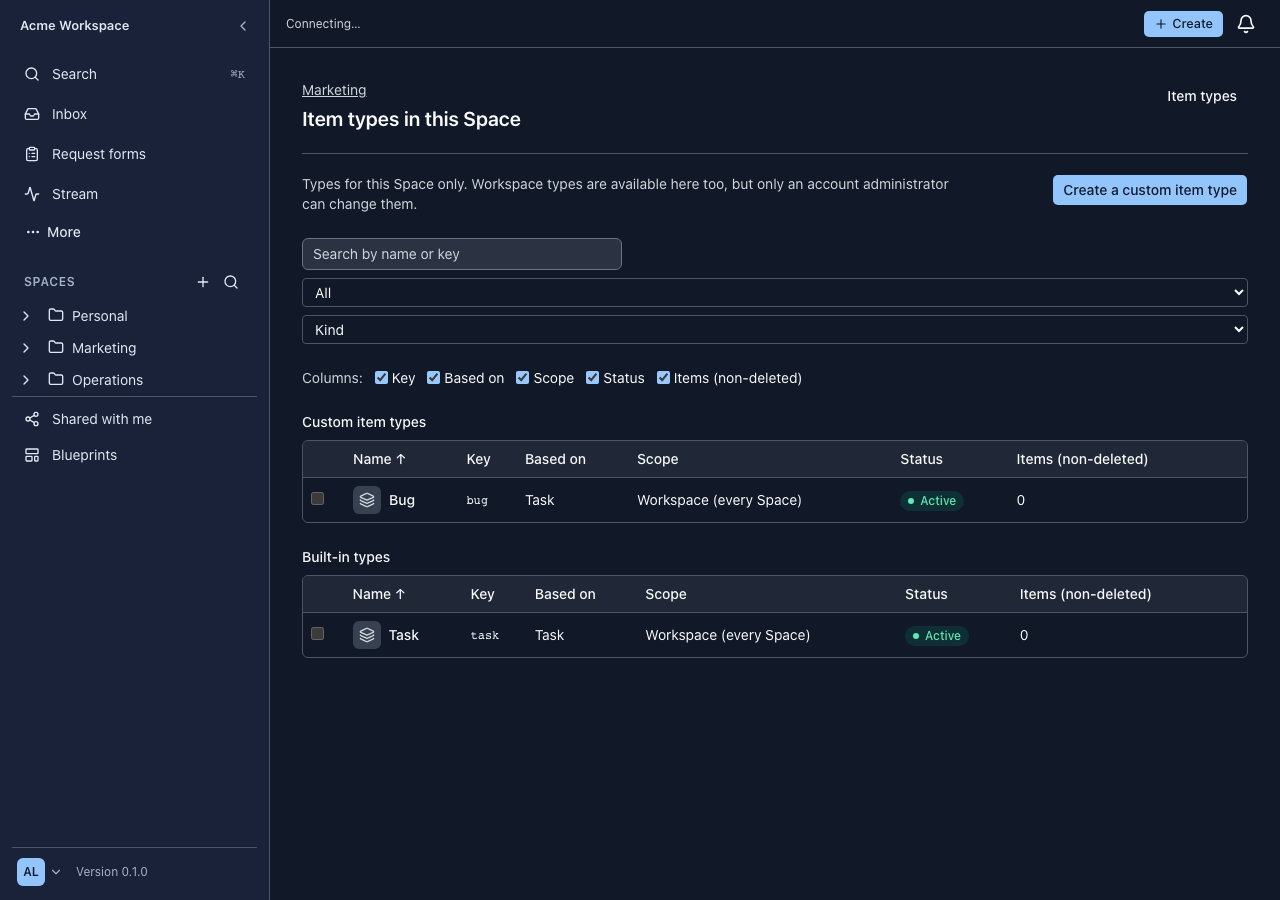
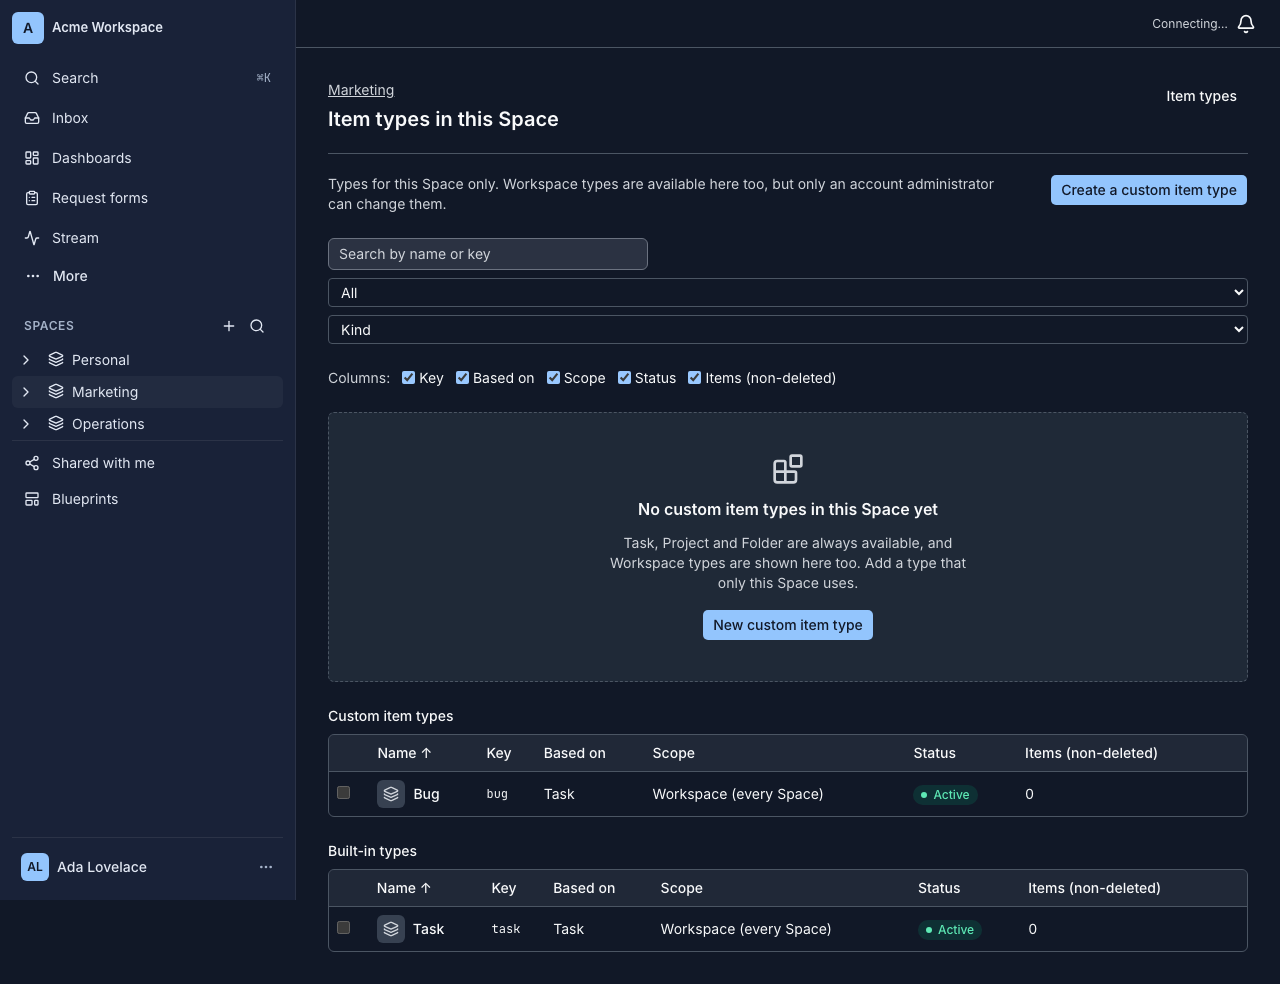
feat(home): Dashboards is the first default pin and the home page
Dashboards becomes the first shortcut pinned for new users and for
users who still have the old default pins (Request forms, Stream).
Search and Inbox were already fixed at the top of the sidebar.

After login, the home page ("/") now opens Dashboards instead of the
last-used or personal Space.

Migration 00350 changes the column default and moves only the users
whose pins are still exactly the old default. Users who changed their
pins keep them.

diff --git a/web/tests/auth.spec.ts b/web/tests/auth.spec.ts
@@ -12,7 +12,7 @@ test.describe("login", () => {
     await page.getByRole("textbox", { name: "Email" }).fill("ada@example.test");
     await page.getByLabel("Password").fill("correct horse");
     await page.getByRole("button", { name: "Log in" }).click();
-    await expect(page.getByRole("heading", { name: "Your workspace is ready" })).toBeVisible();
+    await expect(page).toHaveURL(/\/dashboards$/); // the home page is Dashboards
     expect(calls.find((c) => c.path === "/auth/login")?.body).toEqual({ email: "ada@example.test", password: "correct horse" });
   });
 
@@ -34,8 +34,8 @@ test.describe("login", () => {
     await expect(password).toHaveAttribute("type", "text");
   });
 
-  for (const [next, expected] of [["/settings/security", "/settings/security"], ["//evil.test", "/"]] as const) {
-    test(`next=${next} ${expected === "/" ? "is ignored" : "is honored"}`, async ({ page, baseURL }) => {
+  for (const [next, expected] of [["/settings/security", "/settings/security"], ["//evil.test", "/dashboards"]] as const) {
+    test(`next=${next} ${expected === "/dashboards" ? "is ignored" : "is honored"}`, async ({ page, baseURL }) => {
       let signedIn = false;
       await mockApi(page, {
         "POST /auth/login": () => { signedIn = true; return { body: me }; },
@@ -136,7 +136,7 @@ test.describe("accept invitation", () => {
 
     await page.getByRole("checkbox", { name: /Terms of Service/ }).check();
     await page.getByRole("button", { name: "Get started" }).click();
-    await expect(page.getByRole("heading", { name: "Your workspace is ready" })).toBeVisible();
+    await expect(page).toHaveURL(/\/dashboards$/);
     expect(calls.find((c) => c.path === "/auth/invitations/accept")?.body).toEqual({
       token: "good", first_name: "Grace", last_name: "Hopper", password: "longenough1", accept_terms: true,
     });

diff --git a/web/src/routes/_app/index.tsx b/web/src/routes/_app/index.tsx
@@ -1,27 +1,8 @@
 import { createFileRoute, Navigate } from "@tanstack/react-router";
-import { useQueryClient } from "@tanstack/react-query";
-import { useTranslation } from "react-i18next";
-import type { CurrentUser } from "@/lib/api";
-import { useSpaces } from "@/lib/space-queries";
-import { lastSpaceKey } from "@/lib/session-state";
 
 export const Route = createFileRoute("/_app/")({ component: Workspace });
 
+// The home page is Dashboards. Login sends users to "/" when no other page was requested, so this is what they see first.
 function Workspace() {
-  const { t } = useTranslation();
-  const me = useQueryClient().getQueryData<CurrentUser>(["me"]);
-  const spaces = useSpaces();
-  const recent = me && localStorage.getItem(lastSpaceKey(me.id));
-  const destination = spaces.data?.find((space) => space.id === recent)
-    ?? spaces.data?.find((space) => space.id === me?.personal_space_id);
-  if (destination) return <Navigate to="/spaces/$spaceId" params={{ spaceId: destination.id }} replace />;
-  return (
-    <main className="p-8">
-      <div className="rounded-xl border border-dashed bg-card p-12 text-center">
-        <p className="text-sm font-medium text-primary">{t("workspace.home.eyebrow")}</p>
-        <h1 className="mt-2 text-3xl font-semibold">{t("workspace.home.title")}</h1>
-        <p className="mx-auto mt-3 max-w-lg text-muted-foreground">{t("workspace.home.description")}</p>
-      </div>
-    </main>
-  );
+  return <Navigate to="/dashboards" replace />;
 }

diff --git a/web/tests/dashboards.spec.ts b/web/tests/dashboards.spec.ts
@@ -273,9 +273,10 @@ test("a Space gets a ready-made analytics board of five widgets", async ({ page 
     "POST /dashboards": (body: any) => ({ status: 201, body: { ...board({ widgets: [] }), name: body.name, version } }),
     [`POST /dashboards/${d1}/widgets`]: () => ({ status: 201, body: { ...board({ widgets: [] }), version: ++version } }),
   });
-  await page.goto("/");
-  await expect(page.getByRole("button", { name: "Create analytics board" })).toHaveCount(0); // Tools only show once a Space is open
-  await page.getByRole("button", { name: "Expand Marketing" }).click();
+  await page.goto(`/spaces/${marketing.id}`);
+  await expect(page.getByRole("heading", { name: "Marketing", level: 1 })).toBeVisible();
+  const expand = page.getByRole("button", { name: "Expand Marketing" });
+  if (await expand.isVisible()) await expand.click();
   await page.getByRole("navigation", { name: "Spaces" }).getByRole("button", { name: "Tools" }).click(); // SB-05: Tools starts collapsed
   await page.getByRole("button", { name: "Create analytics board" }).click();
   await expect(page).toHaveURL(`/dashboards/${d1}`);

diff --git a/web/src/lib/sidebar-prefs.ts b/web/src/lib/sidebar-prefs.ts
@@ -20,8 +20,8 @@ export const SHORTCUT_LABEL_KEY: Record<ShortcutId, string> = {
   reviews: "items.fileReview.nav", recycle: "nav.recycle.label",
 };
 
-/** Bawaan: Request forms dan Stream tersemat, sama seperti tampilan sebelumnya. */
-export const DEFAULT_PINNED: readonly ShortcutId[] = ["request_forms", "stream"];
+/** Bawaan: Dashboards paling atas, lalu Request forms dan Stream. Search dan Inbox selalu tampil di atas daftar ini. */
+export const DEFAULT_PINNED: readonly ShortcutId[] = ["dashboards", "request_forms", "stream"];
 
 /** Hanya shortcut yang punya kunci API (sidebar_pinned) yang bisa disematkan; yang lain selalu di More. */
 export const PINNABLE_IDS = SHORTCUT_IDS.filter((id) => SHORTCUT_HIDE_KEY[id] !== undefined);

diff --git a/web/tests/navigation.spec.ts b/web/tests/navigation.spec.ts
@@ -145,8 +145,8 @@ test("unknown URLs provide a keyboard path back to the workspace", async ({ page
   await expect(back).toBeFocused();
   expect((await new AxeBuilder({ page }).analyze()).violations).toEqual([]);
   await page.keyboard.press("Enter");
-  // The workspace home forwards to the person's own space when there is one (the old "ready" panel only shows with no spaces).
-  await expect(page).toHaveURL(/\/spaces\//);
+  // The workspace home is Dashboards.
+  await expect(page).toHaveURL(/\/dashboards$/);
 });
 
 test("workspace headings follow compact and comfortable density", async ({ page }) => {

diff --git a/web/tests/spaces.spec.ts b/web/tests/spaces.spec.ts
@@ -37,7 +37,7 @@ test.describe("sidebar", () => {
   test("keeps the existing nav items before the Spaces list", async ({ page }) => {
     await mockSpaces(page);
     await page.goto("/");
-    await expect(page.getByRole("navigation", { name: "Main navigation" }).getByRole("button")).toHaveText([/^Search/, "Inbox", "Request forms", "Stream", "More"]);
+    await expect(page.getByRole("navigation", { name: "Main navigation" }).getByRole("button")).toHaveText([/^Search/, "Inbox", "Dashboards", "Request forms", "Stream", "More"]);
   });
 });
 

diff --git a/web/tests/items.spec.ts b/web/tests/items.spec.ts
@@ -156,7 +156,7 @@ test("a stale title edit can be discarded and Delete opens a confirmation", asyn
   await expect(confirmation).toBeVisible();
   expect(calls.some((call) => call.method === "DELETE")).toBe(false);
   await confirmation.getByRole("button", { name: "Delete item" }).click();
-  await expect(page).toHaveURL(`/spaces/${me.personal_space_id}`);
+  await expect(page).toHaveURL(`/dashboards`);
   expect(calls.filter((call) => call.method === "DELETE")).toHaveLength(1);
 });
 

diff --git a/web/tests/screens.a11y.spec.ts b/web/tests/screens.a11y.spec.ts
@@ -49,7 +49,7 @@ for (const colorScheme of ["light", "dark"] as const) {
     test("workspace shell has no violations", async ({ page }) => {
       await mockApi(page, { "GET /me": { body: me } });
       await page.goto("/");
-      await expect(page.getByRole("heading", { name: "Your workspace is ready" })).toBeVisible();
+      await expect(page).toHaveURL(/\/dashboards$/);
       await expectNoViolations(page);
     });
 

diff --git a/server/internal/httpserver/navigation_integration_test.go b/server/internal/httpserver/navigation_integration_test.go
@@ -28,7 +28,7 @@ func TestSidebarPinnedKeepsOrderAndValidates(t *testing.T) {
 	f := newFixture(t)
 	member := f.person("regular")
 	pinned := f.call(member, "GET", "/me", nil).body["sidebar_pinned"].([]any)
-	if len(pinned) != 2 || pinned[0] != "request_forms" || pinned[1] != "stream" {
+	if len(pinned) != 3 || pinned[0] != "dashboards" || pinned[1] != "request_forms" || pinned[2] != "stream" {
 		t.Fatalf("default pins = %v", pinned)
 	}
 	f.want(f.call(member, "PATCH", "/me", map[string]any{"sidebar_pinned": []string{"starred", "my_todo", "stream"}}), 200, "pin in order")
